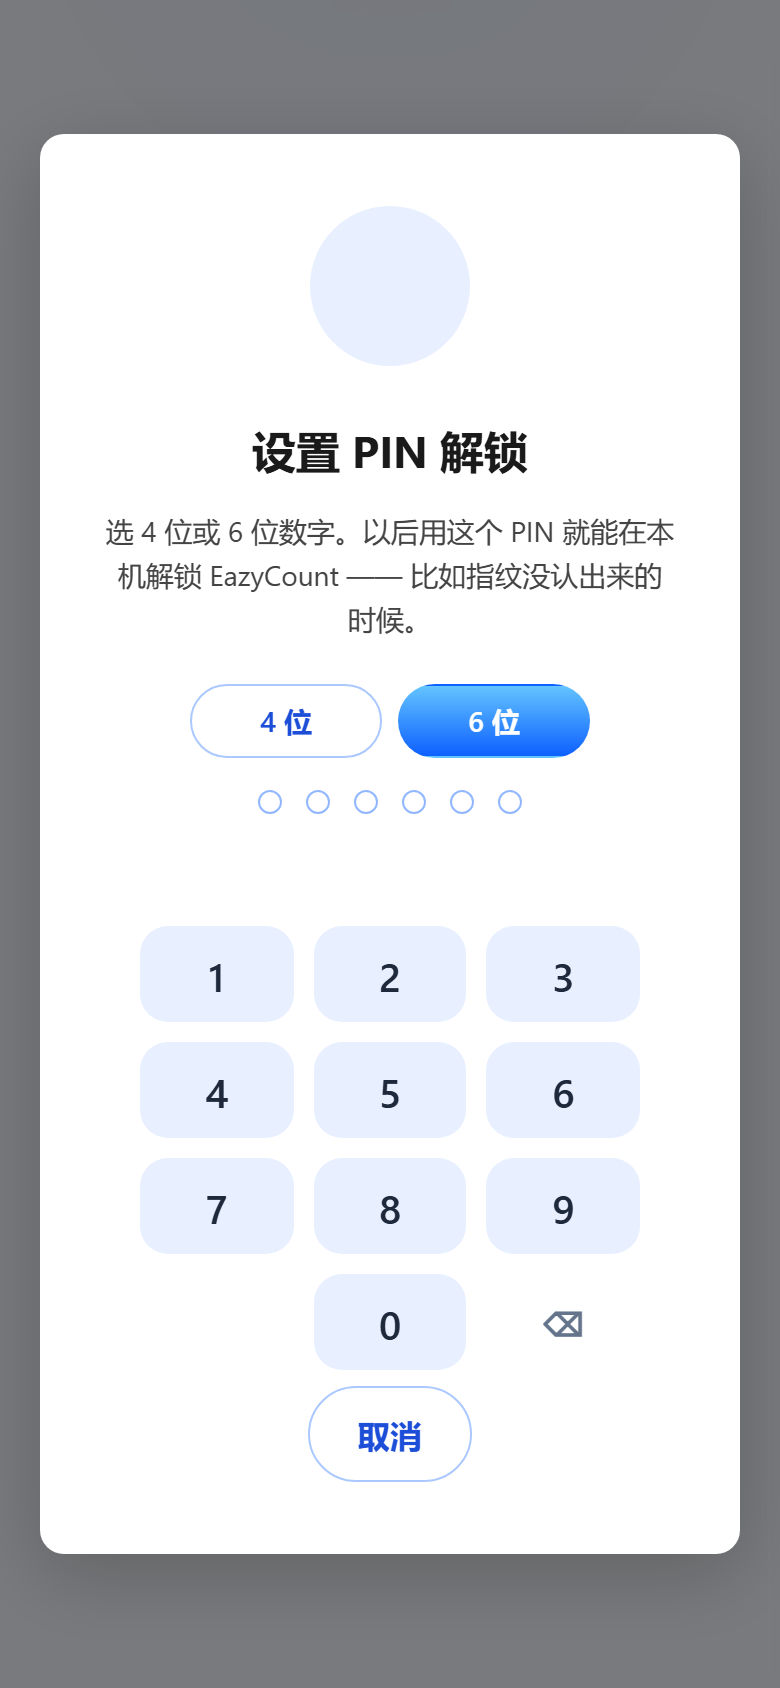
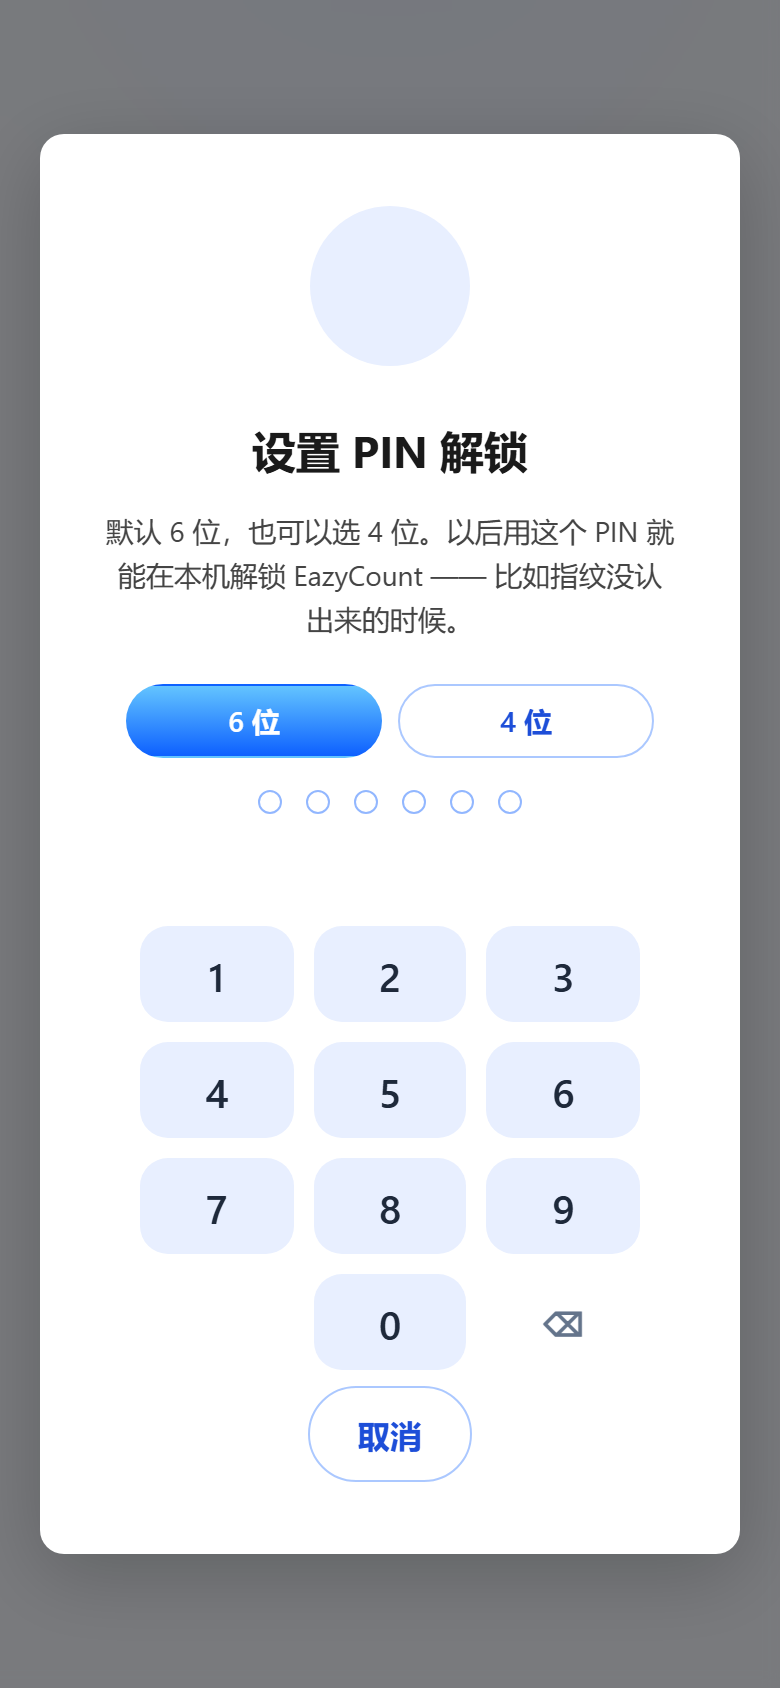
PIN unlock: default to 6 digits (4 still selectable)
Product call after the first review: the default is now 6 digits. A 4-digit PIN has
only 10k combinations and the ciphertext sits on the device, so the 100x is the
cheapest hardening available without touching native code.

The default IS the order of PIN_LENGTHS ([6, 4]): the setup panel takes PIN_LENGTHS[0],
PinPad's fallback for an invalid length comes from the same array, and the copy now
reads "6 digits (or 4 if you prefer)". No second hard-coded 4 anywhere -- that is
what would rot the next time this changes.

Verified: scripts/test-pin-unlock.mjs 17/17 (adds an assertion pinning the default and
that 4 is still an option) and dev-harness/pin-lock-loop.mjs 15/15, which now seeds the
default 6-digit PIN, checks the lock screen draws 6 dots, checks the setup modal opens on
6, taps down to 4 and still unlocks with a 4-digit PIN.

Changed region(s): [[0.1231, 0.3081, 0.8615, 0.4621]]

diff --git a/c168_mobile/frontend/src/translateFile/pinTranslate.js b/c168_mobile/frontend/src/translateFile/pinTranslate.js
@@ -35,13 +35,17 @@ export const PIN_I18N = {
 
     // ── 设置 / 引导（同一个键盘组件）─────────────────────────
     setupTitle: "Set up PIN unlock",
+    // 6 位在前：界面上的默认值就是 6 位（见 lib/pinStore.js 的 PIN_LENGTHS），
+    // 文案顺序跟着默认走，否则用户会以为我们推荐 4 位。
     setupBody:
-      "Choose 4 or 6 digits. You will use this PIN to unlock EazyCount on this device — for example when a fingerprint is not recognised.",
+      "Choose 6 digits (or 4 if you prefer). You will use this PIN to unlock EazyCount on this device — for example when a fingerprint is not recognised.",
     setupBodyNoBiometric:
       "This phone has no fingerprint or face set up for apps. A PIN still lets you open EazyCount without typing your full password.",
     setupLength: "PIN length",
     len4: "4 digits",
     len6: "6 digits",
+    /** 位数选择按钮的读屏文案（按钮本身只显示“6 位”） */
+    lenAria: "Use a {len}-digit PIN",
     setupEnter: "Enter your new PIN",
     setupConfirm: "Enter it again to confirm",
     setupMismatch: "The two PINs do not match. Please start again.",
@@ -89,12 +93,13 @@ export const PIN_I18N = {
     // ── 设置 / 引导 ─────────────────────────────────────────
     setupTitle: "设置 PIN 解锁",
     setupBody:
-      "选 4 位或 6 位数字。以后用这个 PIN 就能在本机解锁 EazyCount —— 比如指纹没认出来的时候。",
+      "默认 6 位，也可以选 4 位。以后用这个 PIN 就能在本机解锁 EazyCount —— 比如指纹没认出来的时候。",
     setupBodyNoBiometric:
       "这台手机里没有可供 App 使用的指纹或人脸。设一个 PIN，同样不用每次输完整密码就能进入。",
     setupLength: "PIN 位数",
     len4: "4 位",
     len6: "6 位",
+    lenAria: "改用 {len} 位 PIN",
     setupEnter: "输入新的 PIN",
     setupConfirm: "再输入一次确认",
     setupMismatch: "两次输入不一致，请重新设置。",

diff --git a/c168_mobile/frontend/dev-harness/pin-lock-harness.jsx b/c168_mobile/frontend/dev-harness/pin-lock-harness.jsx
@@ -15,9 +15,10 @@
  * Everything else is the real code: real localStorage, real WebCrypto (PBKDF2 + AES-GCM),
  * real `pinStore`, real gate, real keypad.
  *
- *   /dev-harness/pin-lock.html          → PIN-only device (no biometric credential at all)
- *   /dev-harness/pin-lock.html?bio=1    → both available (biometric card, PIN as the fallback)
- *   &pin=4821&len=4                     → the PIN the harness enrols
+ *   /dev-harness/pin-lock.html              → PIN-only device (no biometric credential at all)
+ *   /dev-harness/pin-lock.html?bio=1        → both available (biometric card, PIN as the fallback)
+ *   ?setup=1                                → only the "set up PIN" modal
+ *   ?pin=4821&len=4                         → enrol a 4-digit PIN instead of the default 6
  */
 import React, { useEffect, useState } from "react";
 import { createRoot } from "react-dom/client";
@@ -31,8 +32,10 @@ import "../src/styles/login.css";
 import "../src/index.css";
 
 const params = new URLSearchParams(location.search);
-const PIN = params.get("pin") || "4821";
-const LEN = Number(params.get("len") || 4);
+/** 默认种子就是产品的默认位数（6 位，见 lib/pinStore.js 的 PIN_LENGTHS），
+ *  这样“锁屏按几位出点阵”跟着默认值一起被测到。 */
+const PIN = params.get("pin") || "482917";
+const LEN = Number(params.get("len") || PIN.length);
 const WITH_BIOMETRIC = params.get("bio") === "1";
 /** 只挂「设置 PIN」的弹窗（见下面 SetupHarness 的说明） */
 const SETUP_ONLY = params.get("setup") === "1";

diff --git a/c168_mobile/frontend/src/lib/pinStore.js b/c168_mobile/frontend/src/lib/pinStore.js
@@ -46,8 +46,16 @@ export const PIN_KEY = "ec_pin_unlock";
 /** 失败计数（单独一个键：它属于“这一次猜的过程”，不属于 PIN 本身） */
 export const PIN_FAIL_KEY = "ec_pin_fails";
 
-/** 允许的位数。产品要求 4 位或 6 位，由用户在设置时自选。 */
-export const PIN_LENGTHS = [4, 6];
+/**
+ * 允许的位数，由用户在设置时自选。
+ *
+ * ⚠ **顺序即默认**（第一项是设置界面的初始选中值）：产品定为 **6 位**。
+ * 理由不是“好看”：4 位只有 1 万种组合，密文在本机、PBKDF2 拖不住有算力的
+ * 攻击者（量级是秒），6 位把穷举成本拉到 100 倍 —— 仍然不是质变，
+ * 但这是不改原生代码就能拿到的最便宜的一档（见 docs/mobile-pin-unlock.md §7）。
+ * 4 位仍**可选**：老用户习惯、以及顺手就能改的场合不该被堵死。
+ */
+export const PIN_LENGTHS = [6, 4];
 
 /**
  * 连错到这个次数就**清掉 PIN**，强制回密码登录。
@@ -220,6 +228,7 @@ export function normalizePinSettings(raw) {
     typeof raw?.ct === "string" &&
     raw.ct.length > 0;
 
+  // 残缺记录：enabled=false，位数给默认值（反正界面只会用它当“没设过”的展示）
   if (!complete || !len) return { v: VERSION, enabled: false, len: len || PIN_LENGTHS[0] };
 
   return {

diff --git a/c168_mobile/frontend/src/components/lock/PinPad.jsx b/c168_mobile/frontend/src/components/lock/PinPad.jsx
@@ -1,4 +1,5 @@
 import { useCallback, useEffect, useRef, useState } from "react";
+import { PIN_LENGTHS } from "../../lib/pinStore.js";
 import { pinFormat, pinText } from "../../translateFile/pinTranslate.js";
 
 /**
@@ -26,7 +27,8 @@ import { pinFormat, pinText } from "../../translateFile/pinTranslate.js";
  */
 export default function PinPad({ len, busy = false, error = "", hint = "", onSubmit, lang, testId = "pin" }) {
   const t = pinText(lang);
-  const length = Number(len) > 0 ? Number(len) : 4;
+  // 位数非法时的兜底就是产品默认值，不另写一个数字（写过 4，改默认时会漏掉）
+  const length = Number(len) > 0 ? Number(len) : PIN_LENGTHS[0];
   const [value, setValue] = useState("");
   const [shake, setShake] = useState(false);
   /** 防止“输满的那一下”与上一次提交并发（慢速设备上 PBKDF2 要几百毫秒） */

diff --git a/c168_mobile/frontend/src/components/lock/PinSetupModal.jsx b/c168_mobile/frontend/src/components/lock/PinSetupModal.jsx
@@ -7,7 +7,7 @@ import {
 } from "../../lib/biometricStore.js";
 import { registerDeviceToken, revokeDeviceToken } from "../../lib/deviceTokenApi.js";
 import { PIN_LENGTHS, createPin, readPinSettings } from "../../lib/pinStore.js";
-import { pinText } from "../../translateFile/pinTranslate.js";
+import { pinFormat, pinText } from "../../translateFile/pinTranslate.js";
 import PinPad from "./PinPad.jsx";
 
 /**
@@ -193,6 +193,7 @@ export function PinSetupPanel({
               type="button"
               className={`pin-setup__length${len === value ? " is-on" : ""} tap-scale`}
               aria-pressed={len === value}
+              aria-label={pinFormat(t.lenAria, { len: value })}
               onClick={() => {
                 setLen(value);
                 reset();

diff --git a/c168_mobile/frontend/src/components/lock/biometric-lock.css b/c168_mobile/frontend/src/components/lock/biometric-lock.css
@@ -289,7 +289,11 @@
 .pin-setup__lengths {
   display: flex;
   gap: 8px;
-  margin-bottom: 6px;
+  /* 宽度必须给足并居中：父级是 align-items:center 的列，容器宽度会变成
+     “内容宽”，两个按钮等分之后“4 位”会被挤成两行（截图里拍到了）。 */
+  width: 100%;
+  max-width: 264px;
+  margin: 0 auto 6px;
 }
 
 .pin-setup__length {
@@ -297,8 +301,8 @@
      “4 位”比“6 位”窄一截，看着像两个不同尺寸的控件。 */
   flex: 1 1 0;
   min-width: 0;
-  max-width: 132px;
   padding: 8px 14px;
+  white-space: nowrap;
   border: 1px solid rgba(13, 96, 255, 0.35);
   border-radius: 999px;
   background: transparent;

diff --git a/c168_mobile/frontend/dev-harness/README.md b/c168_mobile/frontend/dev-harness/README.md
@@ -24,7 +24,7 @@ disappears again"* bug is reproduced on the **real page** there — run the app 
 npm run dev -- --port 5174 --strictPort
 node dev-harness/login-loop.mjs                      # 5 checks, all 5 fail on the pre-fix code
 node dev-harness/search-sweep.mjs                    # wiring check for the other search boxes
-node dev-harness/pin-lock-loop.mjs                   # 14 checks: lock screen + PIN pad + PIN setup
+node dev-harness/pin-lock-loop.mjs                   # 15 checks: lock screen + PIN pad + PIN setup
 ```
 
 `search-sweep.mjs` walks `/account`, `/maintenance/payment`, `/report/*`, `/more/auto-renew`,
@@ -48,6 +48,7 @@ Manual testing in a browser (no backend needed — the list/token are mocked):
 | `…/dev-harness/pin-lock.html` | the PIN-only lock screen (no biometric credential on the device) |
 | `…/dev-harness/pin-lock.html?bio=1` | a device that also has a fingerprint: biometric card with both fallbacks |
 | `…/dev-harness/pin-lock.html?setup=1` | the "set up PIN" modal on its own |
+| `…/dev-harness/pin-lock.html?pin=4821&len=4` | a 4-digit PIN (the default is 6) |
 
 Recipe: open the To Account field, type a few digits (the mock codes run `1001…`), keep the panel
 up, then click inside the date row's band (add `&mark=1` to see it). `legacyZ=1` → the OS date
